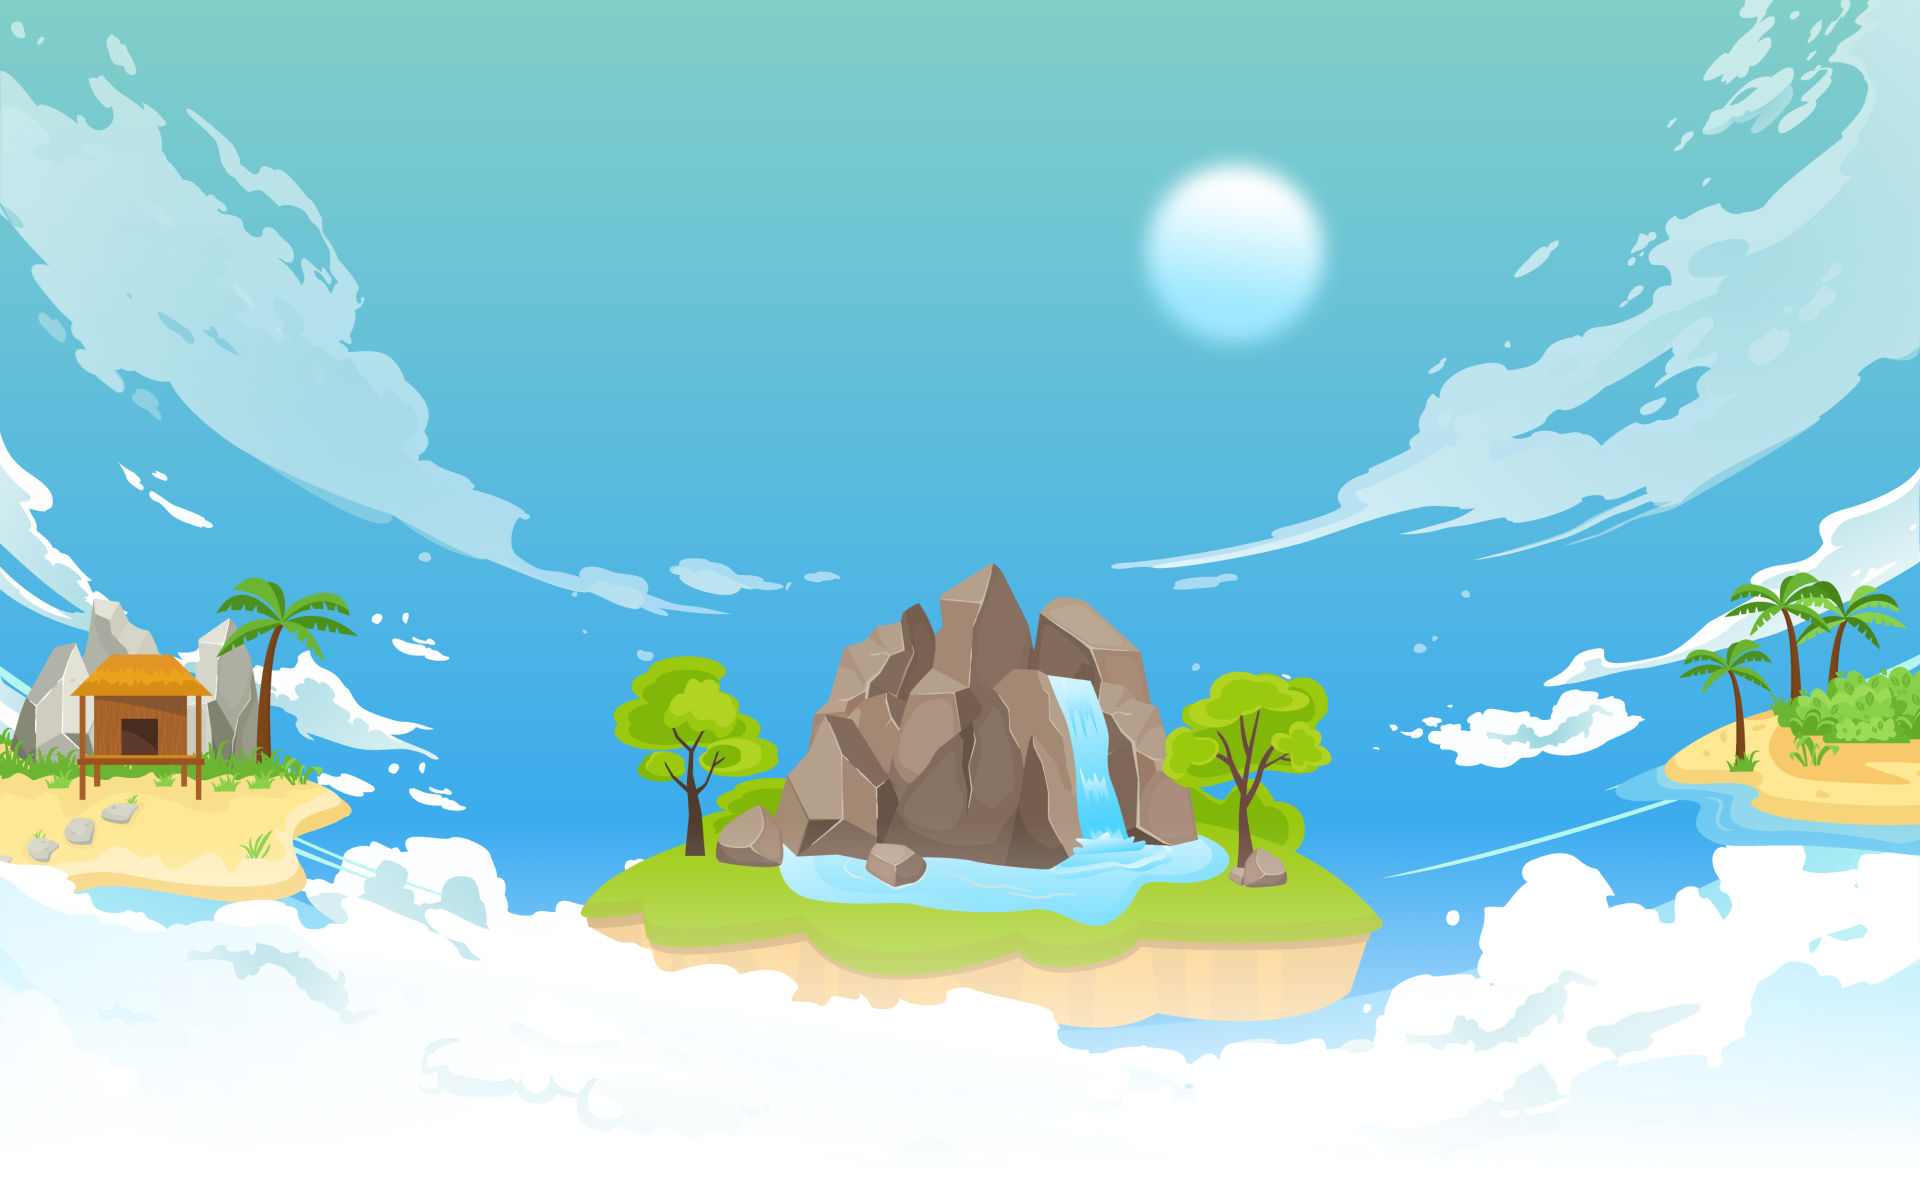
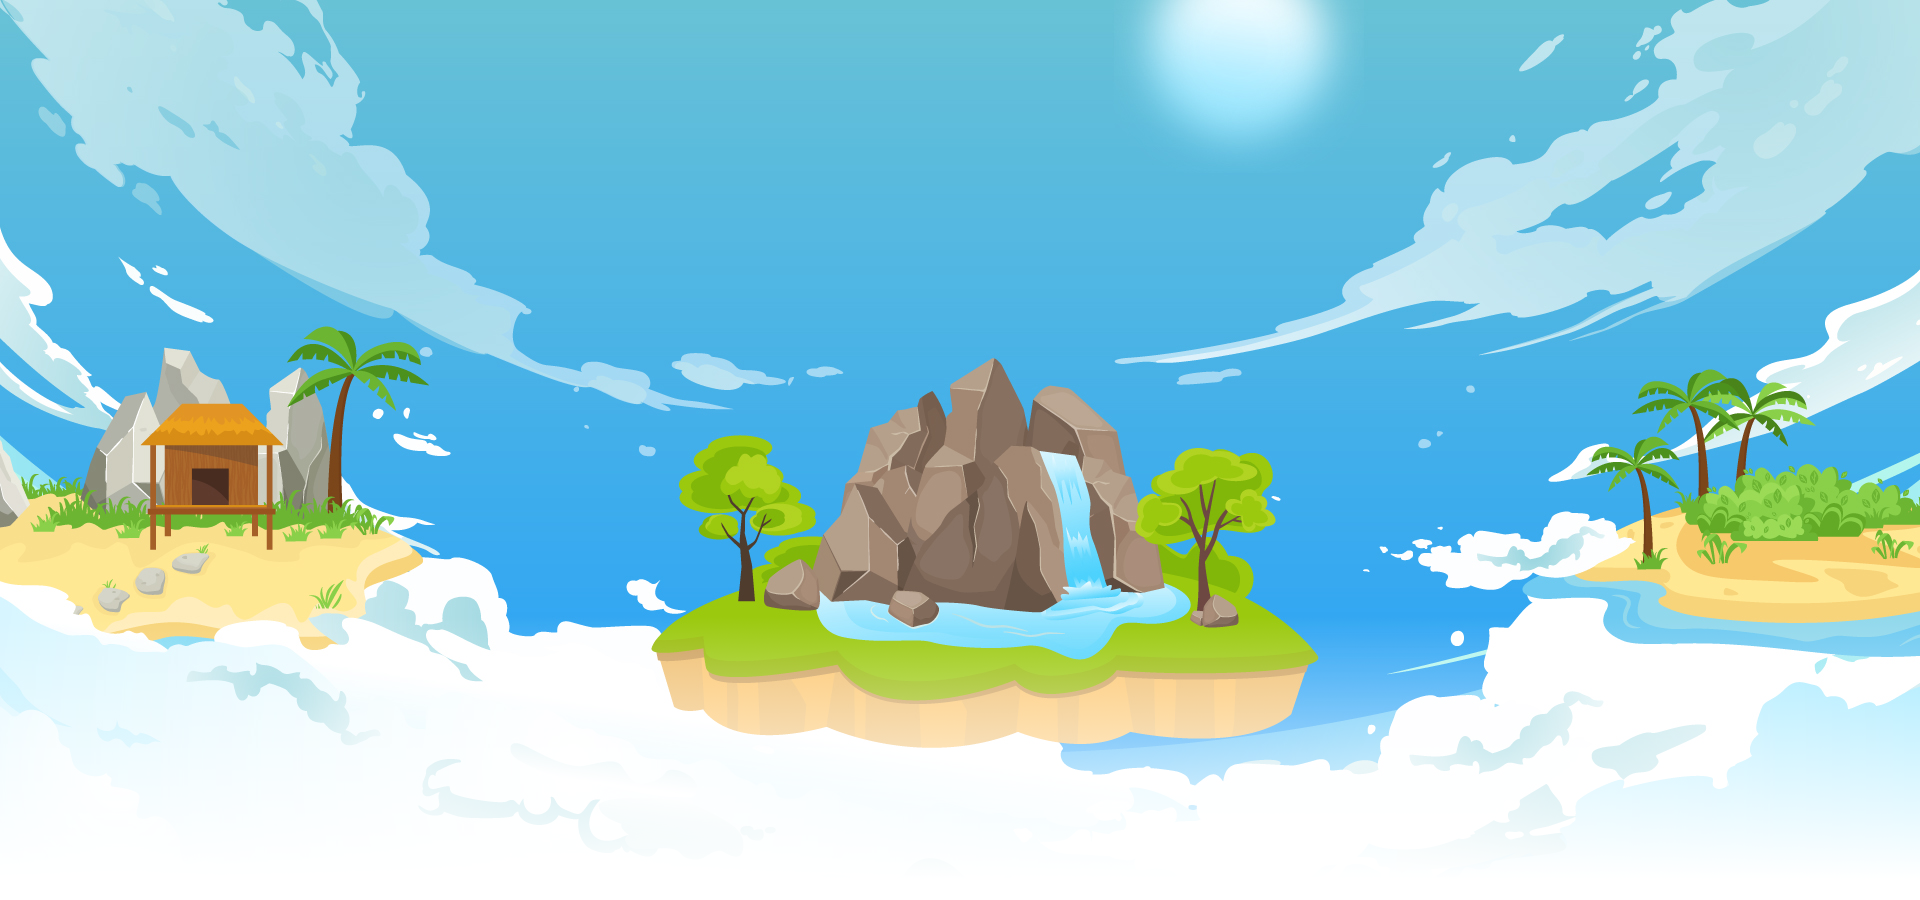
update header + btn

diff --git a/responsive.css b/responsive.css
@@ -482,6 +482,18 @@ main{
   background-image: url('img/Button-text-1/Roadmap_Active.png');
 
 }
+
+.navbar-mobile-item-text .navbar-whitelist{
+  width: 183px;
+  height: 54px;
+  background-image: url('img/Button-text-1/Whitelist_Normal.png');
+  background-size: cover;
+
+}
+.navbar-mobile-item-text:active .navbar-whitelist{
+  background-image: url('img/Button-text-1/Whitelist_Active.png');
+
+}
 .navbar-story {
 width: 115px;
 height: 49px;
@@ -630,7 +642,7 @@ width: 32px;
       margin-bottom: 270px;
   }
   .header__main-img-wrap{
-      padding-top: 89px;
+      padding-top: 40px;
   }
   .header{
       height: 790px;
@@ -684,7 +696,7 @@ width: 32px;
     background-image: url("/img/Button-text-1/Playnow\ button_Active.png.png");
     background-size: contain;
     margin: auto;
-    margin-bottom: 40px;
+    margin-bottom: 12px;
   }
 .wrap-btn-play-now-pc{
 display: block;
@@ -693,7 +705,7 @@ display: block;
   background-image: url("/img/Button-text-1/Playnow\ button_Normal.png");
   background-size: contain;
   margin: auto;
-  margin-bottom: 40px;
+  margin-bottom: 12px;
 }
   .wrap-btn-play-now-pc:active{
     /* display: block;
@@ -716,8 +728,8 @@ display: block;
       display: none;
   }
   .header{
-      height: 790px;
-      background-position: 50% -128px;
+      height: 712px;
+      background-position: 50% -66px;
   }
   .header__main-img{
       width: 329px;
@@ -725,7 +737,7 @@ display: block;
       margin-bottom: 240px
   }
   .header__main-img-wrap{
-      padding-top: 89px;
+      padding-top: 40px;
   }
   .header__download{
       flex-direction: column;
@@ -788,19 +800,20 @@ display: block;
 }
 @media(max-width:414px){
   .header{
-      height: 790px;
-      background-position: 50% -128px;
+      height: 564px;
+      background-position: center;
+      background-image: url(./img/svg/header-bg-mobile.png);
   }
   .title-content img{
     margin-bottom: 36px;
   }
   .header__main-img{
       width: 329px;
-      height: 169px;
-      margin-bottom: 240px
+      height: 136px;
+      margin-bottom: 195px
   }
   .header__main-img-wrap{
-      padding-top: 89px;
+      padding-top: 40px;
   }
   .hide-on-mobile {
       display: none;
@@ -873,6 +886,7 @@ display: block;
     left: 50%;
     transform: translate(-50%, -50%); 
   }main{
+    padding-top: 24px;
     background-image: url(img/svg/main-8.png);
   }
   .footer{

diff --git a/index.html b/index.html
@@ -38,6 +38,11 @@
                     <!-- <img src="img/Button-text-1/Roadmap_Normal.png" alt=""> -->
                 </div>
             </a>
+            <a href="https://universe-garden.gitbook.io/garden-universe/" target="_blank" class="navbar-item-wrap" id="navbar-whitelist-navbar-item">
+                <div class="navbar-whitelist navbar-item">
+                    <!-- <img src="img/Button-text-1/Roadmap_Normal.png" alt=""> -->
+                </div>
+            </a>
         </div>
         <a href="#" class="hide-on-pc toggle-navbar-mobile js-show-navbar-mobile">
             <img src="img/Button-text/icon-collapse-16-13.png" alt="btn-normal">
@@ -375,6 +380,13 @@
             </a>
             <a class="js-hide-navbar-mobile navbar-mobile-item-text" href="#roadmap-element">
                 <span class="navbar-roadmap navbar-item">
+                    <!-- <img  src="/img/svg/text-roadmap-108-33.png" alt="">     -->
+                </span>
+                <!-- <div class="navbar-item-text ">Roadmap</div> -->
+
+            </a>
+            <a class="js-hide-navbar-mobile navbar-mobile-item-text" target="_blank" href="https://universe-garden.gitbook.io/garden-universe/">
+                <span class="navbar-whitelist navbar-item">
                     <!-- <img  src="/img/svg/text-roadmap-108-33.png" alt="">     -->
                 </span>
                 <!-- <div class="navbar-item-text ">Roadmap</div> -->

diff --git a/main.css b/main.css
@@ -47,6 +47,7 @@ align-content: center;
 background-size: cover;
 background-repeat: no-repeat;
 background-position: center;
+height: 900px;
 /* padding-top:1px ; */
 }
 .bg-header-footer{
@@ -60,10 +61,10 @@ top: 0;
 top: 10px; */
 display: flex;
 justify-content: center;
-padding: 54px;
+padding: 47px;
 padding-left:auto ;
 padding-right:auto ;
-margin-bottom: 92px;
+margin-bottom: 10px;
 }
 .navbar-item-wrap{
 margin-left: 9px;
@@ -126,23 +127,23 @@ margin-right: 9px;
 #navbar-whitelist-navbar-item{
   width: 179px;
   height: 63px;
-  background-image: url(img/Button-text-1/Roadmap_Normal.png);
+  background-image: url(img/Button-text-1/Whitelist_Normal.png);
   background-size:cover;
 }
 #navbar-whitelist-navbar-item:hover{
-  background-image: url(img/Button-text-1/Roadmap_Hover.png);
+  background-image: url(img/Button-text-1/Whitelist_Hover.png);
 }
 #navbar-whitelist-navbar-item:active{
-  background-image: url(img/Button-text-1/Roadmap_Active.png);
+  background-image: url(img/Button-text-1/Whitelist_Active.png);
 }
 
 .header__main-img{
-width: 669px;
-height: 343px;
+width: 480px;
+height: 246px;
 display: block;
 margin-left: auto;
 margin-right: auto;
-margin-bottom: 300px;
+margin-bottom: 227px;
 /* margin-top: 256px; */
 }
 .wrap-header-playnow{
